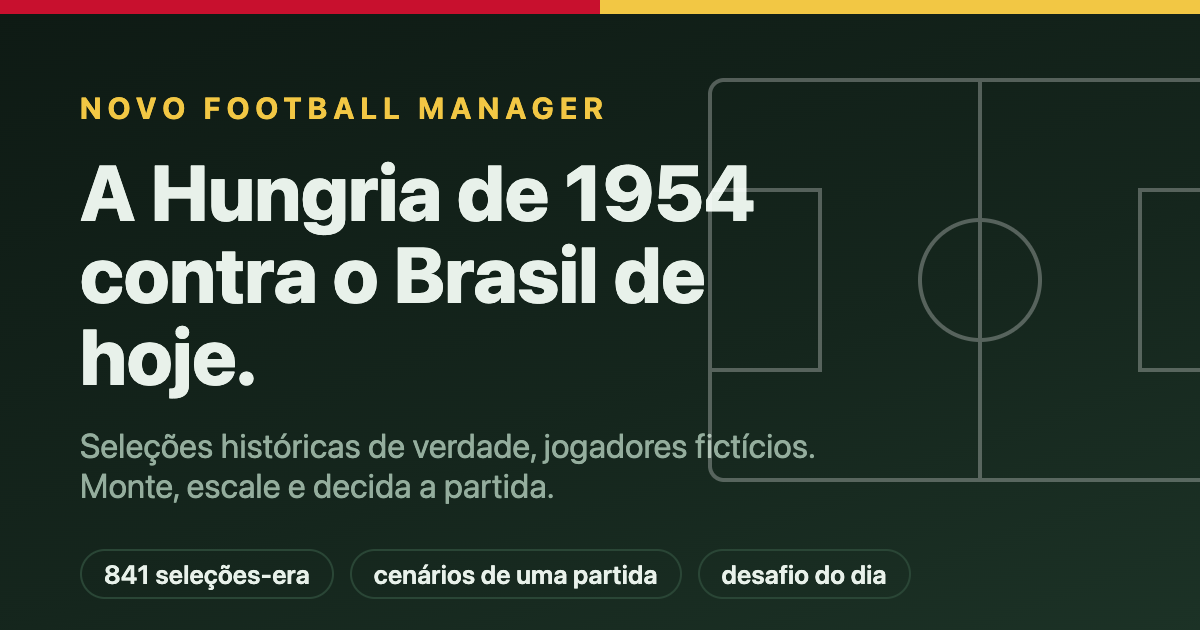
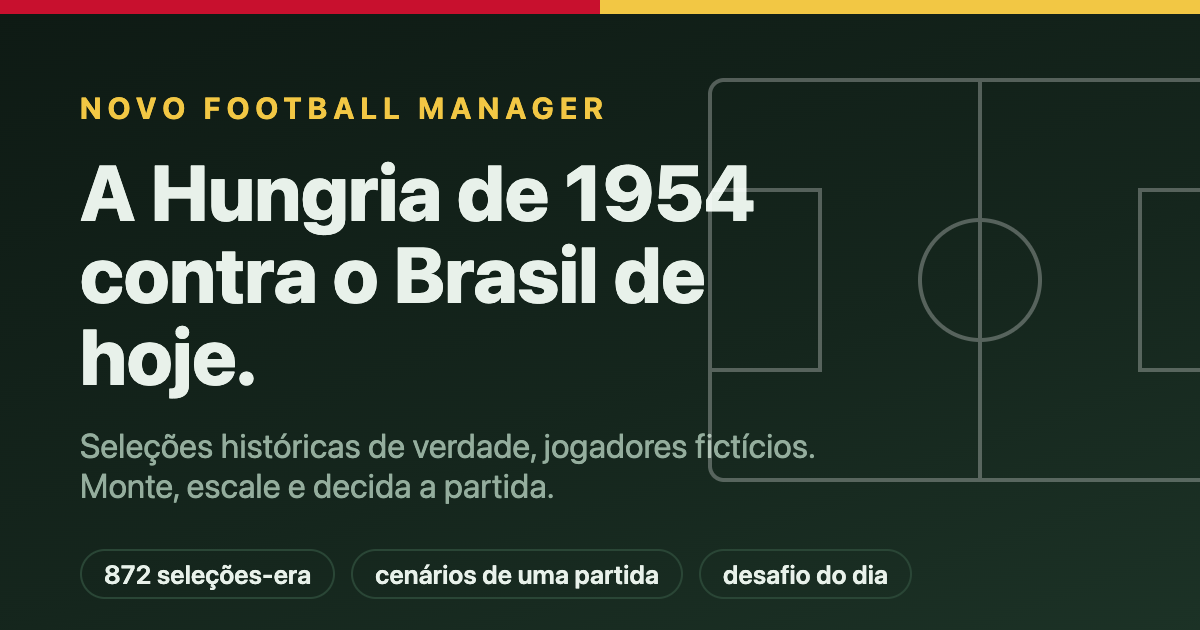
docs: regra das gerações, 872 seleções-era e balanceamento reexecutado; og.png com a contagem do mundo
calibrate dentro das metas (maior desvio por década 0,14), draft-balance 16,9% de campeão (meta < 40%), modos sem regressão além do ruído. make-assets lê a contagem do world.json.

Changed region(s): [[0.3083, 0.9048, 0.555, 0.9349], [0.0925, 0.8746, 0.2775, 0.9349], [0.5858, 0.9048, 0.74, 0.9349]]

diff --git a/scripts/make-assets.ts b/scripts/make-assets.ts
@@ -3,7 +3,10 @@
  * Uso: npm run make-assets   (os PNGs ficam em public/ e são versionados)
  */
 import { chromium } from '@playwright/test';
-import { mkdirSync } from 'node:fs';
+import { mkdirSync, readFileSync } from 'node:fs';
+
+// o número da pré-visualização vem do mundo gerado (não fica fixo no script)
+const ERAS = (JSON.parse(readFileSync(new URL('../data/world.json', import.meta.url), 'utf8')) as { nations: unknown[] }).nations.length;
 
 const BASE = `font-family: system-ui, -apple-system, 'Segoe UI', sans-serif; margin:0; color:#e8f1ea;`;
 
@@ -15,7 +18,7 @@ const og = `<body style="${BASE} width:1200px;height:630px;background:linear-gra
     <div style="font-size:78px;font-weight:800;line-height:1.05;margin-top:26px;max-width:800px">A Hungria de 1954 contra o Brasil de hoje.</div>
     <div style="font-size:34px;color:#94ad9d;margin-top:28px;max-width:760px">Seleções históricas de verdade, jogadores fictícios. Monte, escale e decida a partida.</div>
     <div style="display:flex;gap:16px;margin-top:44px;font-size:26px;font-weight:600">
-      <span style="border:2px solid #2a4636;border-radius:999px;padding:8px 22px">841 seleções-era</span>
+      <span style="border:2px solid #2a4636;border-radius:999px;padding:8px 22px">${ERAS} seleções-era</span>
       <span style="border:2px solid #2a4636;border-radius:999px;padding:8px 22px">cenários de uma partida</span>
       <span style="border:2px solid #2a4636;border-radius:999px;padding:8px 22px">desafio do dia</span>
     </div>

diff --git a/docs/DADOS.md b/docs/DADOS.md
@@ -19,7 +19,10 @@ A Fjelstul World Cup Database (CC-BY-SA 4.0, com nomes reais) **não** é usada 
 
 1. **Elo:** todos os jogos em ordem cronológica, inicial 1500, estilo World Football Elo. K = 60 (Copa), 50 (finais continentais), 40 (eliminatórias e Nations League), 30 (outros), 20 (amistosos); multiplicador por saldo de gols; vantagem de mando de 100 pontos fora de campo neutro. Jogos sem placar são ignorados.
 2. **Décadas:** toda seleção da tabela de países (`src/data/countries.ts`, 72 países) com no mínimo **15 jogos na década**, de **1930 a 2020**. O Elo da era é a média do Elo pré-jogo na década. Os nomes do CSV são os nomes atuais; o jogo usa o nome da época (ex.: "União Soviética", "Alemanha Ocidental"). Saem **561** décadas (33 em 1930, 35 em 1940, 45 em 1950, 60 em 1960, 63 em 1970 e 1980, 67 em 1990, 65 em 2000, 2010 e 2020). O critério é ajustável: `npm run build-world -- --min=20`.
-3. **Gerações (picos):** para cada seleção, janelas de **4 a 8 anos** com pelo menos 10 jogos em que o Elo (relativo à média de todas as seleções no mesmo ano, para descontar a inflação do Elo) ficou pelo menos 55 pontos acima da média da própria seleção. Escolhem-se as melhores janelas sem sobreposição. Cada pico vira uma seleção-era nomeada pelo período (ex.: "Hungria 1954–57", id `HUN-1954-1957`) e usa o Elo médio do período. Saem **280** gerações; há mais gerações recentes porque as seleções jogam mais hoje, então há mais janelas com jogos suficientes. Total: **841 seleções-era**.
+3. **Gerações (picos):** são seleções-era de 4 a 8 anos nomeadas pelo período (ex.: "Hungria 1954–57", id `HUN-1954-1957`), com o Elo médio do período. Duas regras, na mesma ordem de prioridade e sem sobreposição dentro da mesma seleção. Em ambas o Elo é relativo à média de todas as seleções no mesmo ano, para descontar a inflação do Elo, e a janela tem pelo menos 10 jogos:
+   - **Acima da própria média:** janelas de 4 a 8 anos em que o Elo ficou pelo menos 55 pontos acima da média da própria seleção; escolhem-se as melhores sem sobreposição (`findPeaks`). Saem **280** gerações; há mais recentes porque as seleções jogam mais hoje, então há mais janelas com jogos suficientes.
+   - **Mais fortes do mundo:** em cada janela fixa de 5 anos (1930–34, 1935–39, ...), as **3 seleções de maior Elo relativo** (`findWorldTopWindows`). Esta regra existe porque a anterior deixava de fora as seleções dominantes por décadas (Brasil de 1960 e de 1970, Itália de 1938, Inglaterra de 1966, Alemanha de 1990): como a janela era comparada com a média da carreira inteira, quem sempre foi forte quase nunca "passava" dos 55 pontos. Se a seleção já tem geração no trecho, a nova fica só com o maior trecho livre (mínimo de 4 anos). Saem **31** gerações a mais, quase todas anteriores a 1990. O resumo dessas gerações diz "uma das seleções mais fortes do mundo no período" e a posição (1ª a 3ª), nunca "acima da média da seleção".
+   Total: **872 seleções-era** (561 décadas e 311 gerações). O teste `gerações das melhores seleções do mundo` (`src/data/data.test.ts`) confere que toda seleção entre as 3 mais fortes de uma janela de 5 anos tem geração cobrindo pelo menos 3 desses anos.
 4. **Dados de cada seleção-era:** força absoluta (`elo` e `strength = 10^((elo - 1800) / 400)`, usada pelo motor), **força na época** (`percentile`, de 0 a 100, entre as décadas da mesma década; nas gerações, a década do meio do período), estilo de jogo, gols marcados e sofridos por jogo, continente, cores, cultura dos nomes, jogos na amostra, campanha real (`record`) e um **resumo factual** (`summary`).
 5. **Resumo factual:** escrito só com resultados (jogos, vitórias, empates, derrotas, gols, maior vitória, maior sequência invicta, participações em Copas do Mundo e posição entre as seleções da década). **Não cita nenhum jogador.** Os nomes de adversários são nomes de seleções.
 6. **Estilo de jogo:** abertura (gols totais dos jogos da seleção contra a média da década) e domínio (fatia dos gols a favor).

diff --git a/docs/CALIBRACAO.md b/docs/CALIBRACAO.md
@@ -5,7 +5,7 @@
 Há duas populações:
 
 - **Nível da Copa** (seleções-era com Elo >= 1650): é a população das metas do prompt e a que se compara com os jogos reais entre seleções desse nível.
-- **Mundo inteiro** (todas as 841 seleções-era, inclusive as fracas): confere o comportamento contra seleções fracas, comparado com todos os jogos reais da base (1930 em diante, sem amistosos).
+- **Mundo inteiro** (todas as 872 seleções-era, inclusive as fracas): confere o comportamento contra seleções fracas, comparado com todos os jogos reais da base (1930 em diante, sem amistosos).
 
 ## Alvos e resultado (20.000 jogos, nível da Copa)
 
@@ -83,18 +83,18 @@ Por jogo, entre seleções-era sorteadas: impedimento 3,1; defesa difícil 0,75;
 
 Robô guloso: a cada rodada escolhe o melhor jogador disponível (nota x encaixe) para uma vaga vazia, e só troca o sorteio (3 trocas) quando a melhor opção vale menos de 60. Depois joga uma Copa com todas as eras, com o time controlado pela mesma IA das outras seleções.
 
-Resultado com **1.000 drafts**, formações alternadas, Copa de todas as eras (sorteio com potes por força; 841 seleções-era no sorteio, com as gerações e os craques da Fase 6.7):
+Resultado com **1.000 drafts**, formações alternadas, Copa de todas as eras (sorteio com potes por força; 872 seleções-era no sorteio, com as gerações e os craques da Fase 6.7):
 
 | Fase mais longe | % dos drafts |
 | --- | --- |
-| Campeão | **16,6%** |
-| Vice | 11,1% |
-| Semifinal | 15,3% |
-| Quartas | 22,8% |
-| Oitavas | 24,3% |
-| Grupos | 9,9% |
+| Campeão | **16,9%** |
+| Vice | 7,5% |
+| Semifinal | 15,6% |
+| Quartas | 20,5% |
+| Oitavas | 29,4% |
+| Grupos | 10,1% |
 
-O alvo era campeão em menos de 40%: o robô vence 16,6% das Copas (contra 3,1% de uma seleção qualquer entre 32). O Elo médio do time do robô é 2.363 contra 1.748 dos adversários, e mesmo assim o mata-mata é de partida única, com zebras. A diferença está em escolher só entre os 40 jogadores de uma seleção sorteada ao acaso (muitas fracas) e ainda ter de preencher cada posição.
+O alvo era campeão em menos de 40%: o robô vence 16,9% das Copas (contra 3,1% de uma seleção qualquer entre 32). O Elo médio do time do robô é 2.368 contra 1.749 dos adversários, e mesmo assim o mata-mata é de partida única, com zebras. A diferença está em escolher só entre os 40 jogadores de uma seleção sorteada ao acaso (muitas fracas) e ainda ter de preencher cada posição.
 
 ## Limites conhecidos
 

diff --git a/docs/BALANCE_MODOS.md b/docs/BALANCE_MODOS.md
@@ -35,4 +35,4 @@
 
 **Desafio do dia** (200 dias): mediana de 14 pontos; grupos 63,5%, oitavas 20,0%, quartas 11,5%, semifinal 2,0%, vice 1,5%, campeão 1,5%. Com tática automática, cerca de 3 de cada 10 dias chegam ao mata-mata; com decisões de um humano, mais.
 
-**Conquistas** (2.000 Copas simuladas, em % das Copas): todas foram desbloqueadas pelo robô, exceto **Campeão do draft**, que o script não simula (o `draft-balance` mostra 16,6% de títulos para o robô guloso). As mais raras: Cinderela (0,05%), Desafio perfeito (0,15%), Azarão na final (0,2%), Defesa de ferro (0,4%) e Festival de gols (0,95%): pensadas como "lendárias". As comuns: Virada (21,5%), Muralha (11%) e Fase de grupos perfeita (8,6%).
+**Conquistas** (2.000 Copas simuladas, em % das Copas): todas foram desbloqueadas pelo robô, exceto **Campeão do draft**, que o script não simula (o `draft-balance` mostra 16,9% de títulos para o robô guloso). As mais raras: Cinderela (0,05%), Desafio perfeito (0,15%), Azarão na final (0,2%), Defesa de ferro (0,4%) e Festival de gols (0,95%): pensadas como "lendárias". As comuns: Virada (21,5%), Muralha (11%) e Fase de grupos perfeita (8,6%).

diff --git a/README.md b/README.md
@@ -12,7 +12,7 @@ Manager de seleções históricas que roda inteiro no navegador. Você escolhe u
 2. **Desafio do dia:** a data define a seed: todo mundo recebe a mesma seleção fraca e a mesma Copa; resultado compartilhável.
 3. **Cenários (uma partida):** 8 jogos de mata-mata contra uma seleção de outra época ("Maracanazo", "Davi e Golias", "Brasil 70 contra Brasil de hoje"...), com seed fixa: o mesmo jogo para todo mundo. A escalação automática perde por pouco, então é preciso virar com elenco, tática e decisões. `npm run scenarios-balance` mostra a dificuldade de cada um.
 4. **Monte a sua (draft):** sorteio de seleções-era, 1 jogador por rodada, 3 trocas de sorteio.
-5. **Seleção pronta:** escolha uma das 841 seleções-era (décadas de 1930 a 2020 e gerações de 4 a 8 anos) e convoque 23.
+5. **Seleção pronta:** escolha uma das 872 seleções-era (décadas de 1930 a 2020 e gerações de 4 a 8 anos) e convoque 23.
 
 ## Compartilhar
 
